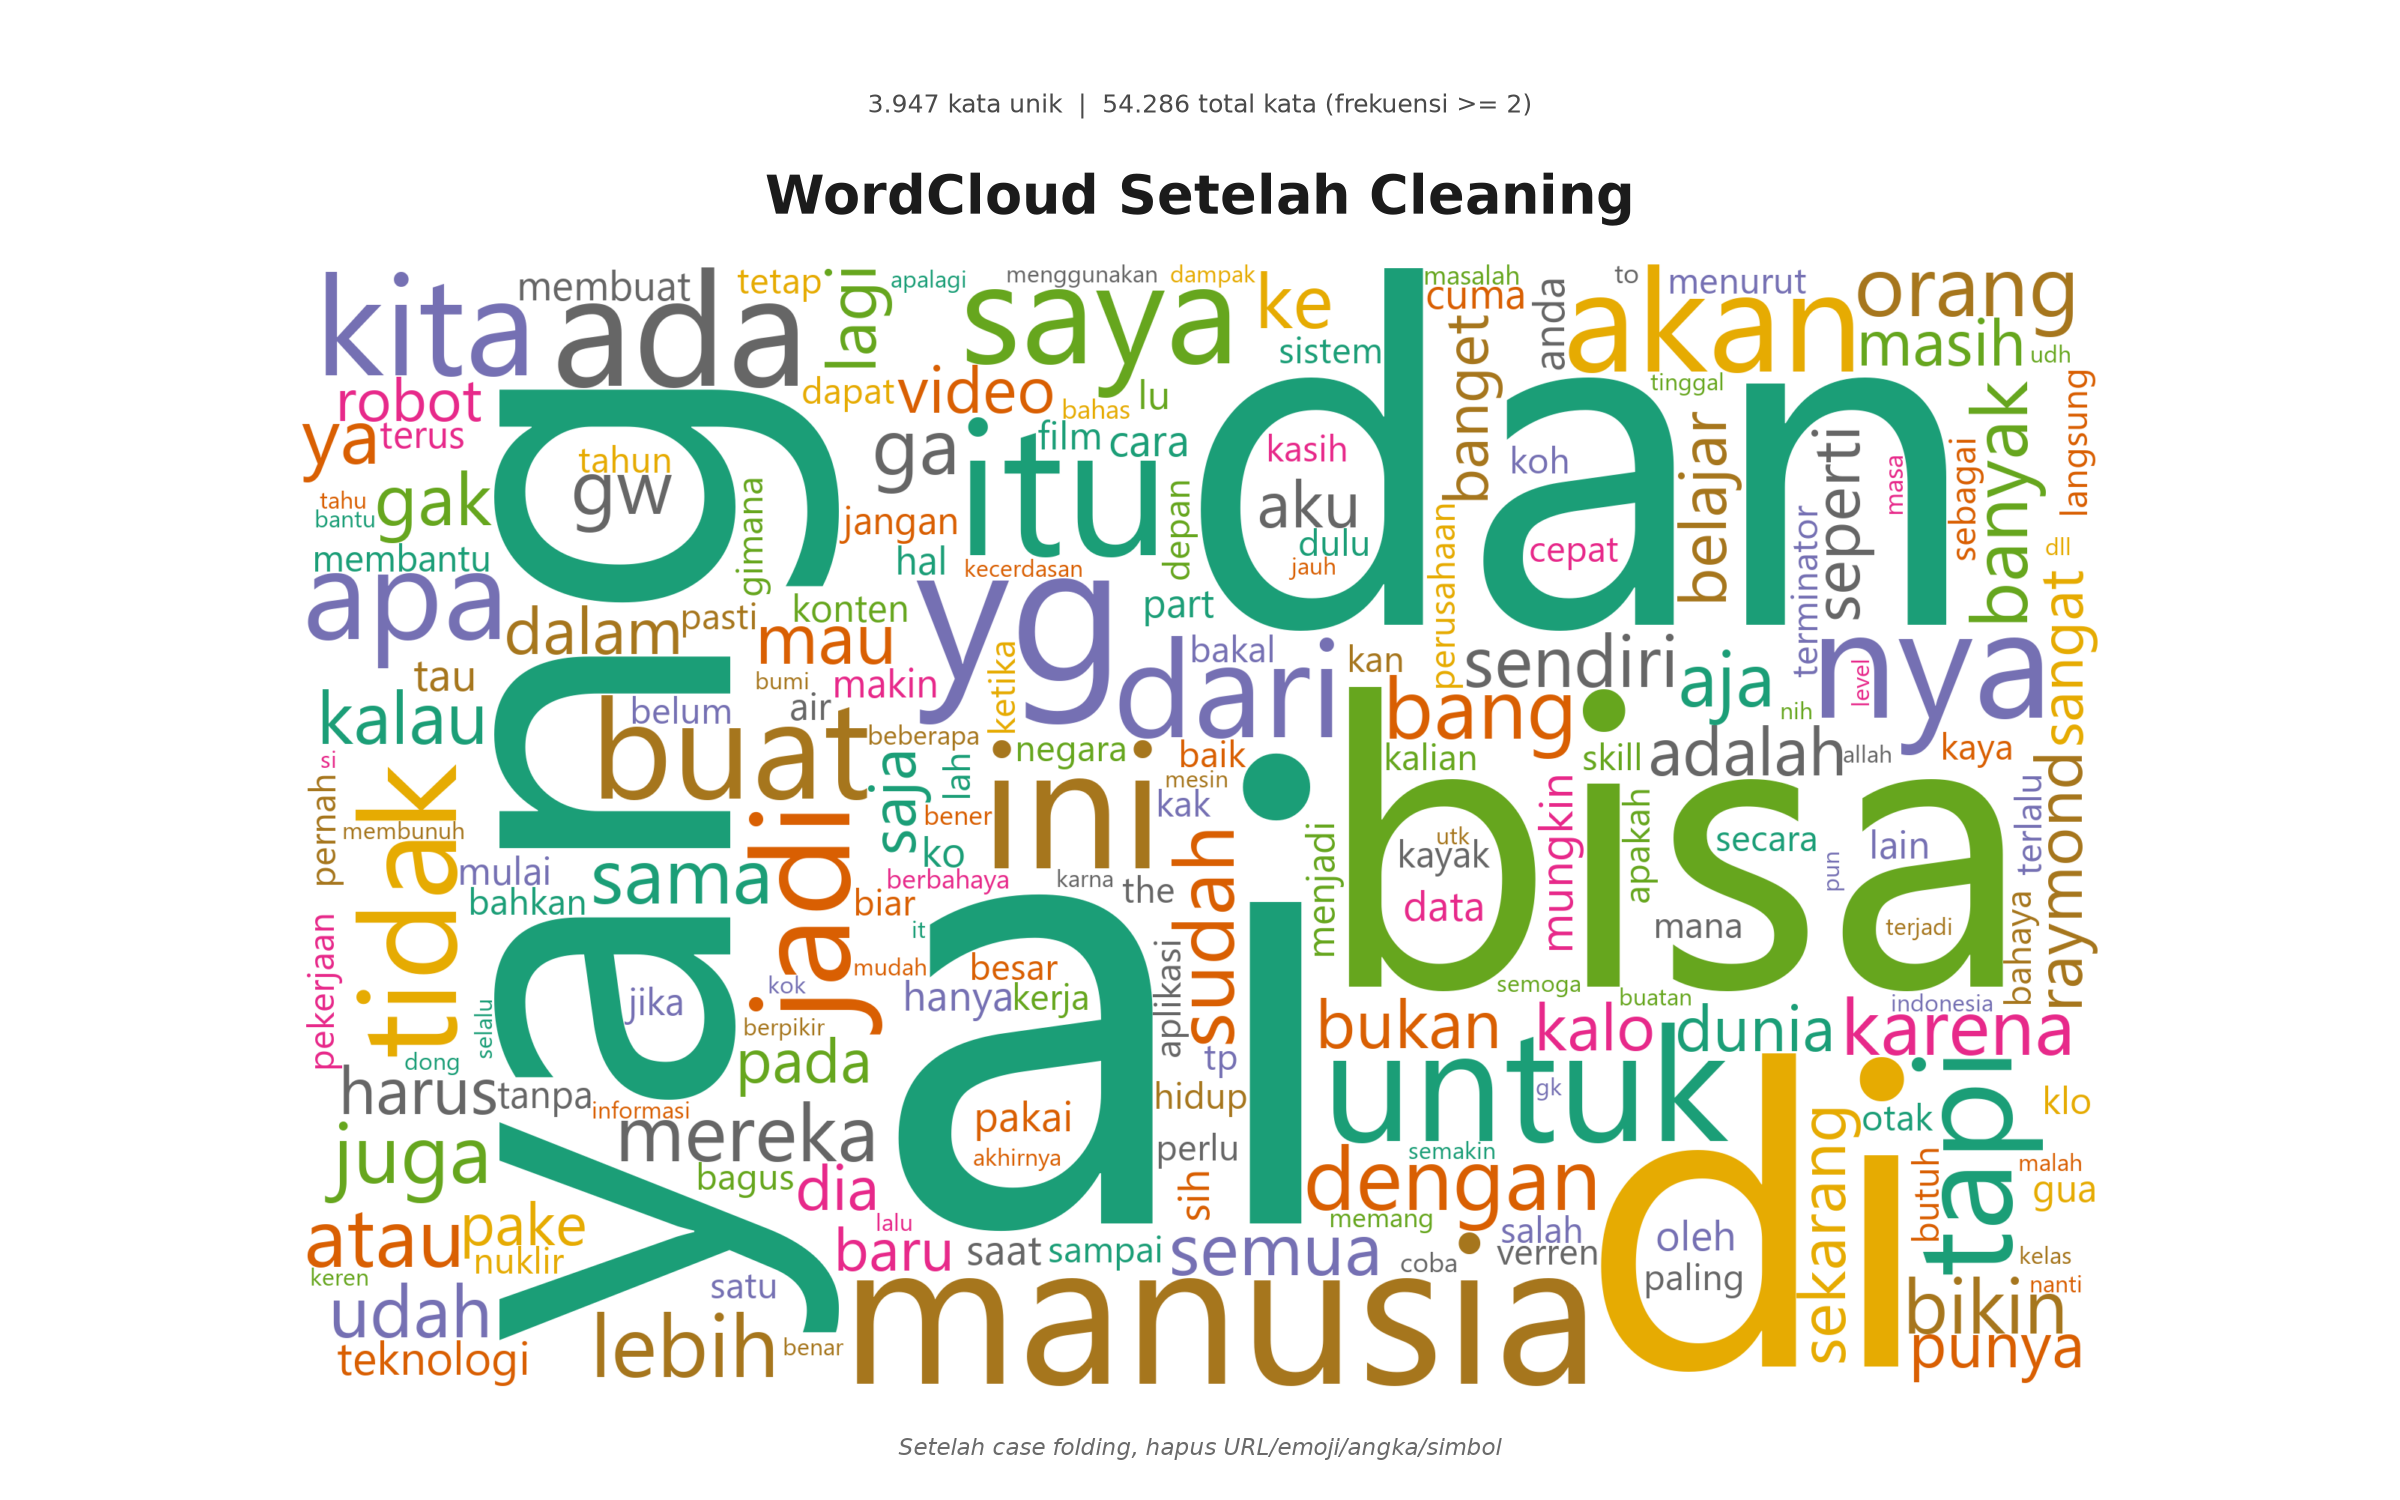
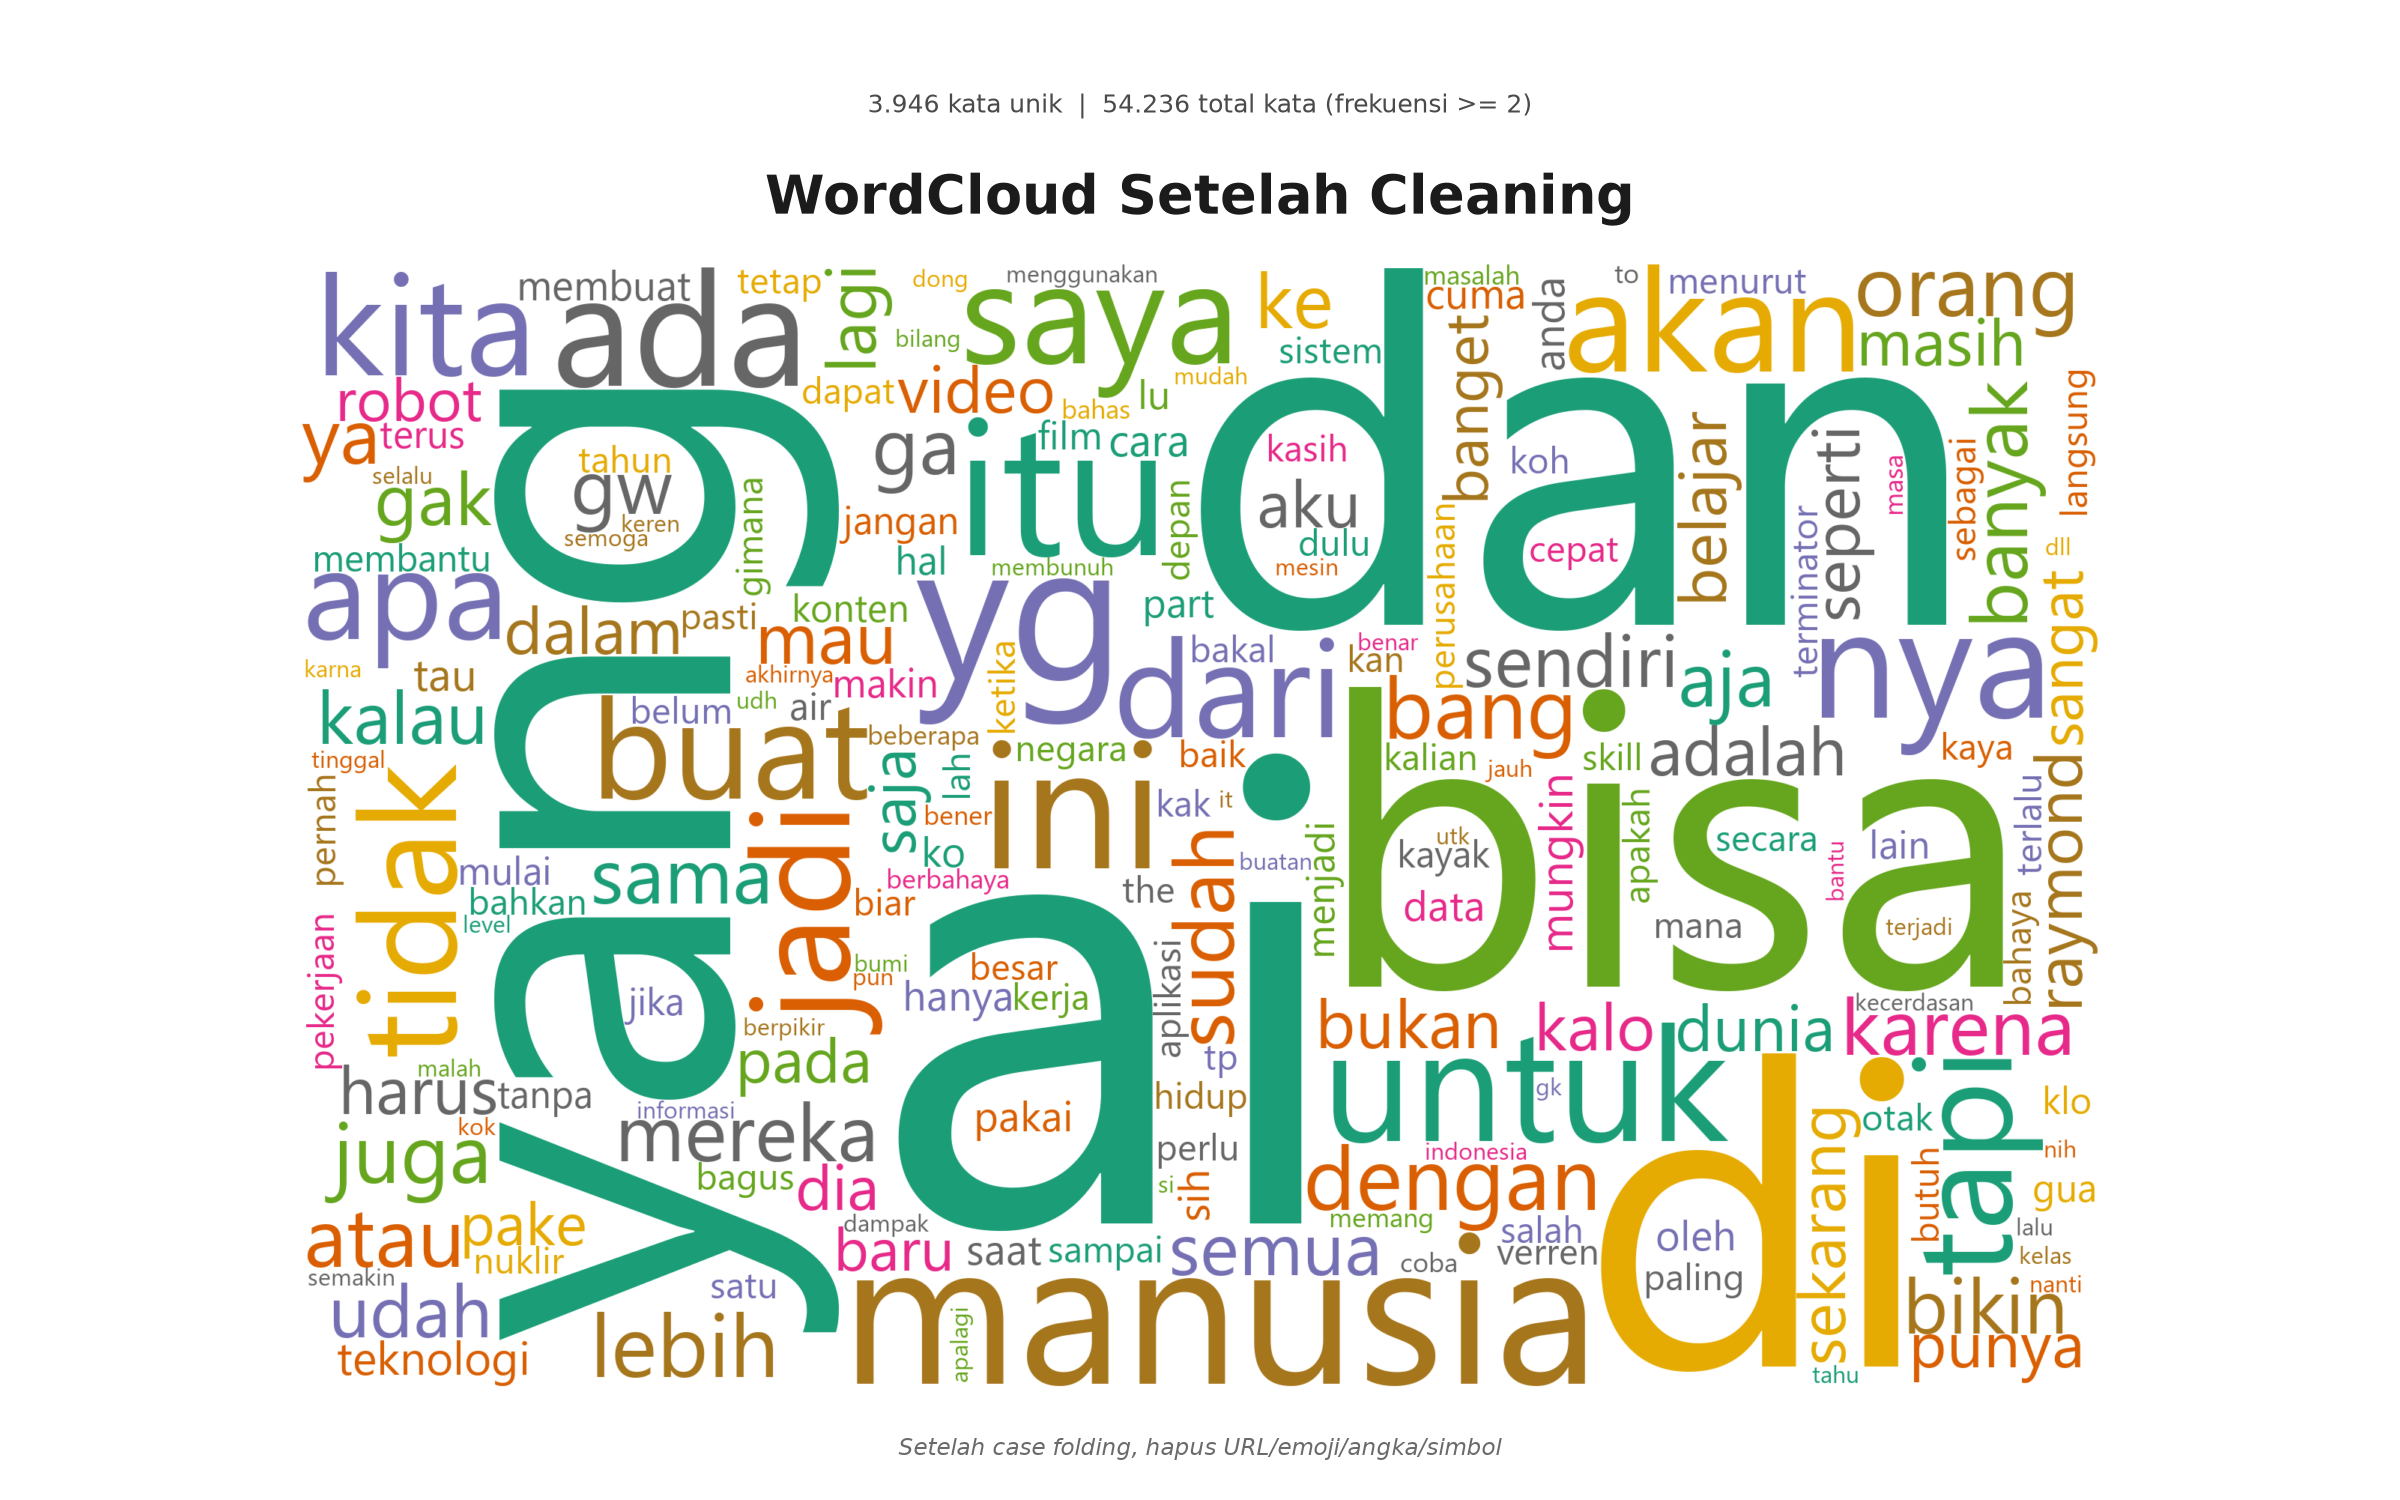
feat: sembunyikan kata allah dari gambar WordCloud
Tambahkan daftar filter visual yang dapat diedit di visualization/wordcloud_excludes.txt. Dataset dan tabel frekuensi tetap utuh; filter hanya berlaku untuk gambar WordCloud.

diff --git a/visualization/make_wordcloud.py b/visualization/make_wordcloud.py
@@ -40,6 +40,7 @@ FREQ_CSV = PROJECT_ROOT / "results" / "word_frequencies.csv"
 TOP20_CSV = PROJECT_ROOT / "results" / "top_20_words.csv"
 RESULTS_DIR = PROJECT_ROOT / "results"
 SUMMARY_PATH = RESULTS_DIR / "wordcloud_summary.txt"
+EXCLUDES_PATH = PROJECT_ROOT / "visualization" / "wordcloud_excludes.txt"
 
 # Tampilan tiap WordCloud: (judul, keterangan, colormap, warna latar).
 CLOUD_STYLE = {
@@ -118,9 +119,33 @@ def load_frequencies(path: Path = FREQ_CSV) -> pd.DataFrame:
     return df[df["word"].str.strip().ne("") & df["count"].gt(0)]
 
 
-def frequencies_for(df: pd.DataFrame, stage: str, min_count: int = MIN_CLOUD_COUNT) -> dict[str, int]:
+def frequencies_for(
+    df: pd.DataFrame,
+    stage: str,
+    min_count: int = MIN_CLOUD_COUNT,
+    excluded: set[str] | None = None,
+) -> dict[str, int]:
     subset = df[(df["stage"] == stage) & (df["count"] >= min_count)]
+    if excluded:
+        subset = subset[~subset["word"].str.lower().isin(excluded)]
     return dict(zip(subset["word"], subset["count"]))
+
+
+def load_excludes(path: Path = EXCLUDES_PATH) -> set[str]:
+    """Muat kata yang tidak ditampilkan pada WordCloud (satu kata per baris).
+
+    Filter ini hanya berlaku untuk gambar. Dataset dan tabel frekuensi tidak
+    diubah, sehingga hasil analisis tetap dapat diaudit.
+    """
+    if not path.exists():
+        return set()
+
+    excluded: set[str] = set()
+    for raw_line in path.read_text(encoding="utf-8").splitlines():
+        line = raw_line.strip().lower()
+        if line and not line.startswith("#"):
+            excluded.add(line)
+    return excluded
 
 
 def draw_wordcloud(
@@ -224,6 +249,7 @@ def main() -> int:
 
     try:
         frequencies = load_frequencies()
+        excluded = load_excludes()
     except (FileNotFoundError, ValueError) as error:
         logger.error("%s", error)
         return 1
@@ -242,11 +268,12 @@ def main() -> int:
     say(f"Input frekuensi : {FREQ_CSV.relative_to(PROJECT_ROOT)}")
     say(f"Font            : {Path(font_path).name if font_path else 'default WordCloud'}")
     say(f"Parameter       : maks {MAX_WORDS} kata, minimal {MIN_CLOUD_COUNT}x muncul, {CLOUD_WIDTH}x{CLOUD_HEIGHT} px")
+    say(f"Dikecualikan    : {', '.join(sorted(excluded)) if excluded else '-'} (hanya dari gambar)")
     say()
 
     outputs: list[tuple[str, Path, dict[str, int]]] = []
     for stage in stages:
-        freq = frequencies_for(frequencies, stage)
+        freq = frequencies_for(frequencies, stage, excluded=excluded)
         if not freq:
             logger.error("Tahap '%s' tidak punya kata dengan frekuensi >= %d.", stage, MIN_CLOUD_COUNT)
             return 1

diff --git a/ARCHITECTURE.md b/ARCHITECTURE.md
@@ -66,7 +66,8 @@ PROJECT-ML-YOUTUBE/
 │   ├── noise_analysis.py
 │   └── word_frequency.py
 ├── visualization/
-│   └── make_wordcloud.py
+│   ├── make_wordcloud.py
+│   └── wordcloud_excludes.txt
 ├── results/
 │   ├── word_frequencies.csv
 │   ├── top_20_words.csv
@@ -143,10 +144,11 @@ Fungsi utama (rencana):
 - Output: tabel frekuensi per tahap (dipakai `make_wordcloud.py` dan bar chart Top 20)
 
 ### 4.8 `visualization/make_wordcloud.py`
-- Input: frekuensi kata per tahap (`results/word_frequencies.csv`)
+- Input: frekuensi kata per tahap (`results/word_frequencies.csv`), daftar kata yang dikecualikan dari gambar (`visualization/wordcloud_excludes.txt`)
 - Proses: `WordCloud.generate_from_frequencies()` → Matplotlib → simpan PNG
 - Output: `wordcloud_raw.png`, `wordcloud_cleaned.png`, `wordcloud_preprocessed.png`, `wordcloud_noise.png`, `top_20_words.png`
 - Parameter: 2400×1500 px, maks 200 kata, hanya kata dengan frekuensi ≥ 2, `random_state=42` agar reproducible
+- Filter visual: kata di `wordcloud_excludes.txt` tidak digambar, tetapi tetap ada di dataset dan tabel frekuensi
 - Syarat: judul, ukuran jelas, background kontras, data dari dataset nyata
 
 ### 4.9 `workflow/make_workflow.py`

diff --git a/README.md b/README.md
@@ -47,7 +47,8 @@ Dokumen acuan:
 │   ├── noise_analysis.py   # Phase 6: label noise + dataset noise_comments.csv
 │   └── word_frequency.py   # Phase 7: frekuensi kata per tahap
 ├── visualization/
-│   └── make_wordcloud.py   # Phase 7: 4 WordCloud + bar chart Top 20
+│   ├── make_wordcloud.py   # Phase 7: 4 WordCloud + bar chart Top 20
+│   └── wordcloud_excludes.txt  # kata yang disembunyikan dari WordCloud (editable)
 ├── workflow/
 │   ├── make_workflow.py    # Phase 8: diagram alur pipeline (PNG)
 │   └── workflow.png
@@ -243,6 +244,11 @@ python visualization/make_wordcloud.py
 
 Nama file sengaja `make_wordcloud.py`, bukan `wordcloud.py`, agar tidak menimpa
 library `wordcloud` saat proses impor.
+
+Kata yang tidak ingin ditampilkan pada WordCloud dapat ditambahkan ke
+`visualization/wordcloud_excludes.txt` (satu kata per baris). Daftar ini hanya
+memfilter gambar; dataset dan `results/word_frequencies.csv` tetap utuh agar
+hasil analisis dapat diaudit. Saat ini kata `allah` dikecualikan dari gambar.
 
 Workflow (Phase 8):
 

diff --git a/LAPORAN.md b/LAPORAN.md
@@ -599,8 +599,9 @@ Kata-kata seperti `benar`, `baik`, dan `tahu` lebih bersifat evaluatif. Kehadira
 | Random state | 42 (reproducible) |
 | Font | Segoe UI |
 | Input | `results/word_frequencies.csv` |
+| Filter visual | `allah` (via `visualization/wordcloud_excludes.txt`); dataset dan tabel frekuensi tetap utuh |
 
-Hanya kata dengan frekuensi minimal 2 yang divisualisasikan. Tujuannya mengurangi kata sekali muncul yang membuat WordCloud ramai tetapi tidak informatif.
+Hanya kata dengan frekuensi minimal 2 yang divisualisasikan. Tujuannya mengurangi kata sekali muncul yang membuat WordCloud ramai tetapi tidak informatif. Kata yang tidak relevan untuk ditonjolkan dapat disembunyikan dari gambar tanpa mengubah data analisis.
 
 ### 10.2 WordCloud data mentah
 
